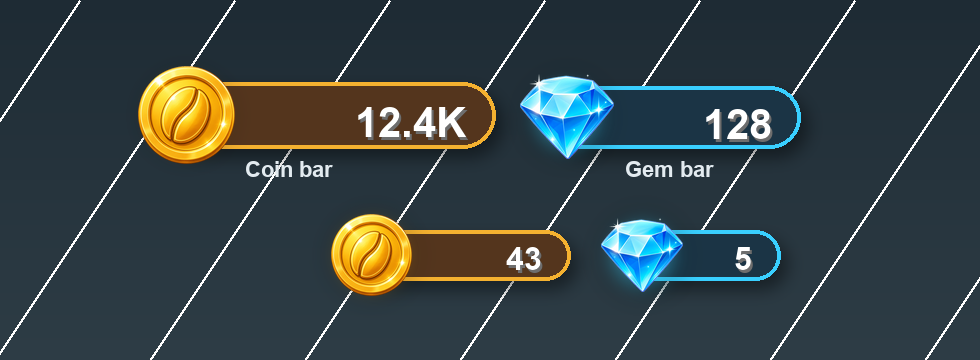
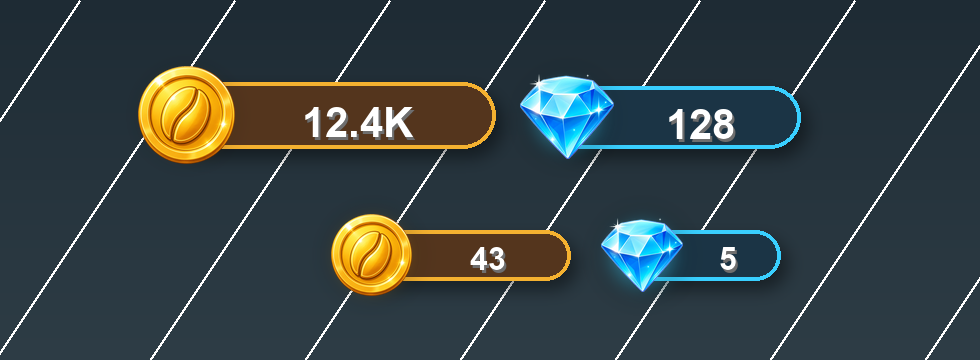
Center currency bar amounts

diff --git a/Assets/GameManager.cs b/Assets/GameManager.cs
@@ -2617,9 +2617,9 @@ public class GameManager : MonoBehaviour
         iconImage.color = Color.white;
         iconImage.preserveAspect = true;
 
-        TMP_Text amountText = CreateText(barObject.transform, "AmountText", "0", new Vector2(38f, 0f), new Vector2(size.x - 92f, size.y), fontSize);
+        TMP_Text amountText = CreateText(barObject.transform, "AmountText", "0", new Vector2(42f, 0f), new Vector2(size.x - 112f, size.y), fontSize);
         amountText.color = Color.white;
-        amountText.alignment = TextAlignmentOptions.MidlineRight;
+        amountText.alignment = TextAlignmentOptions.Center;
         return amountText;
     }
 
